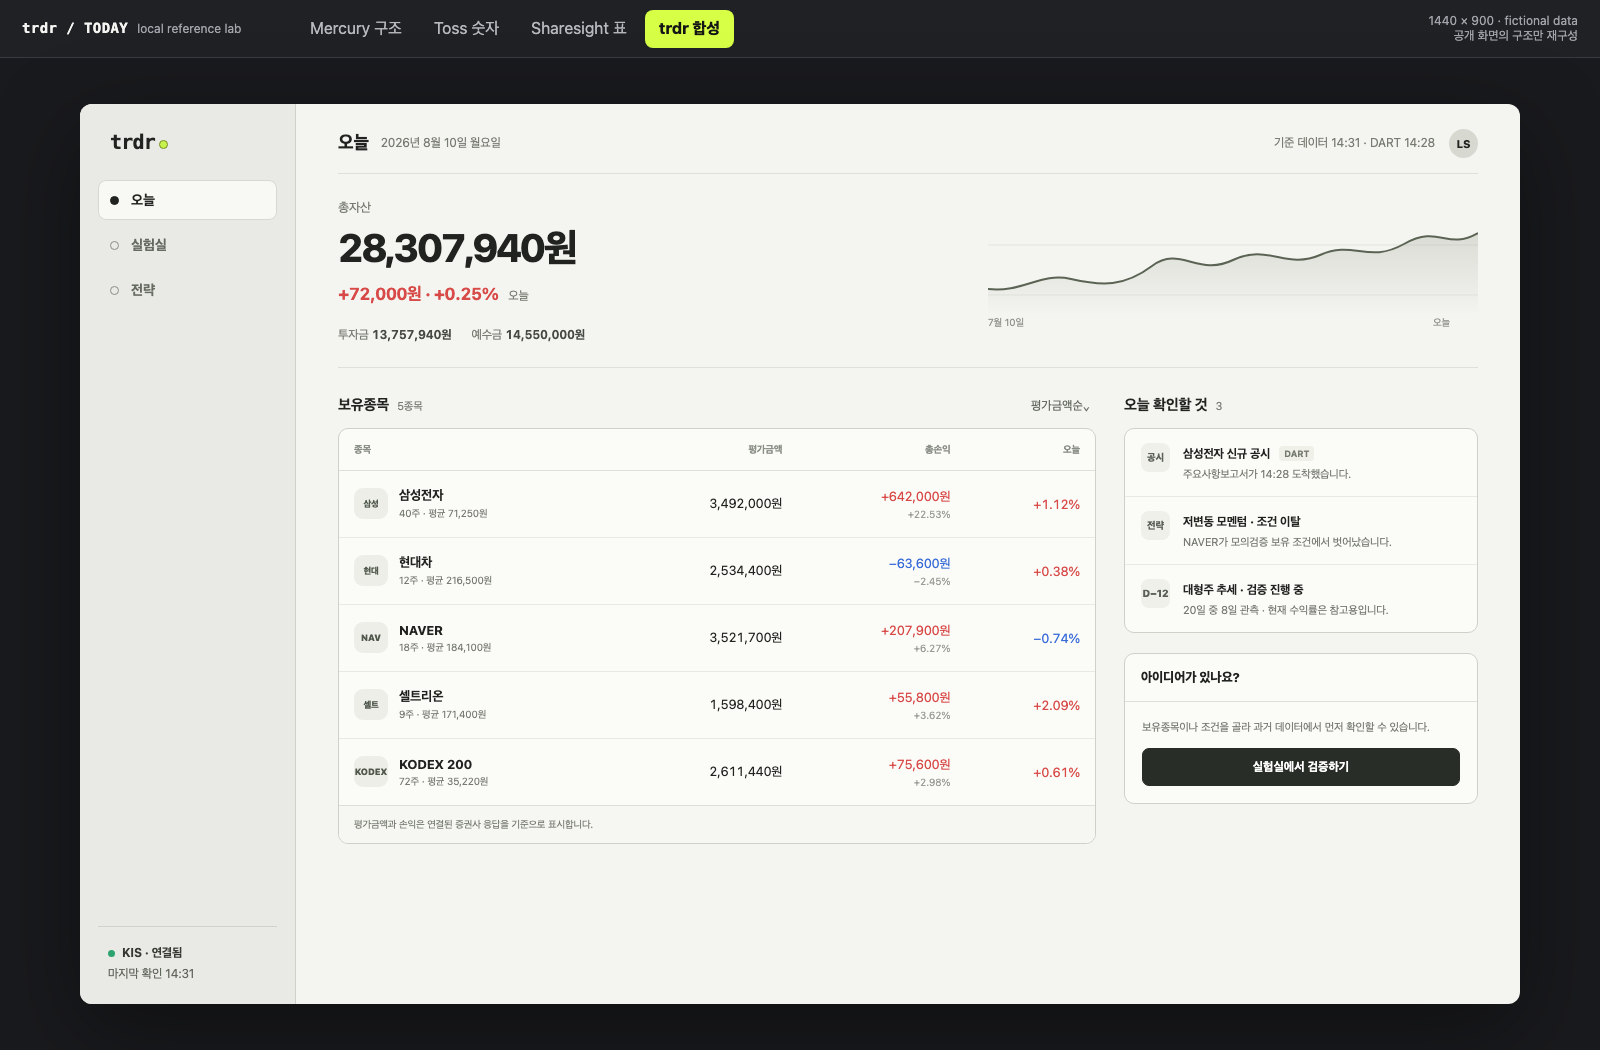
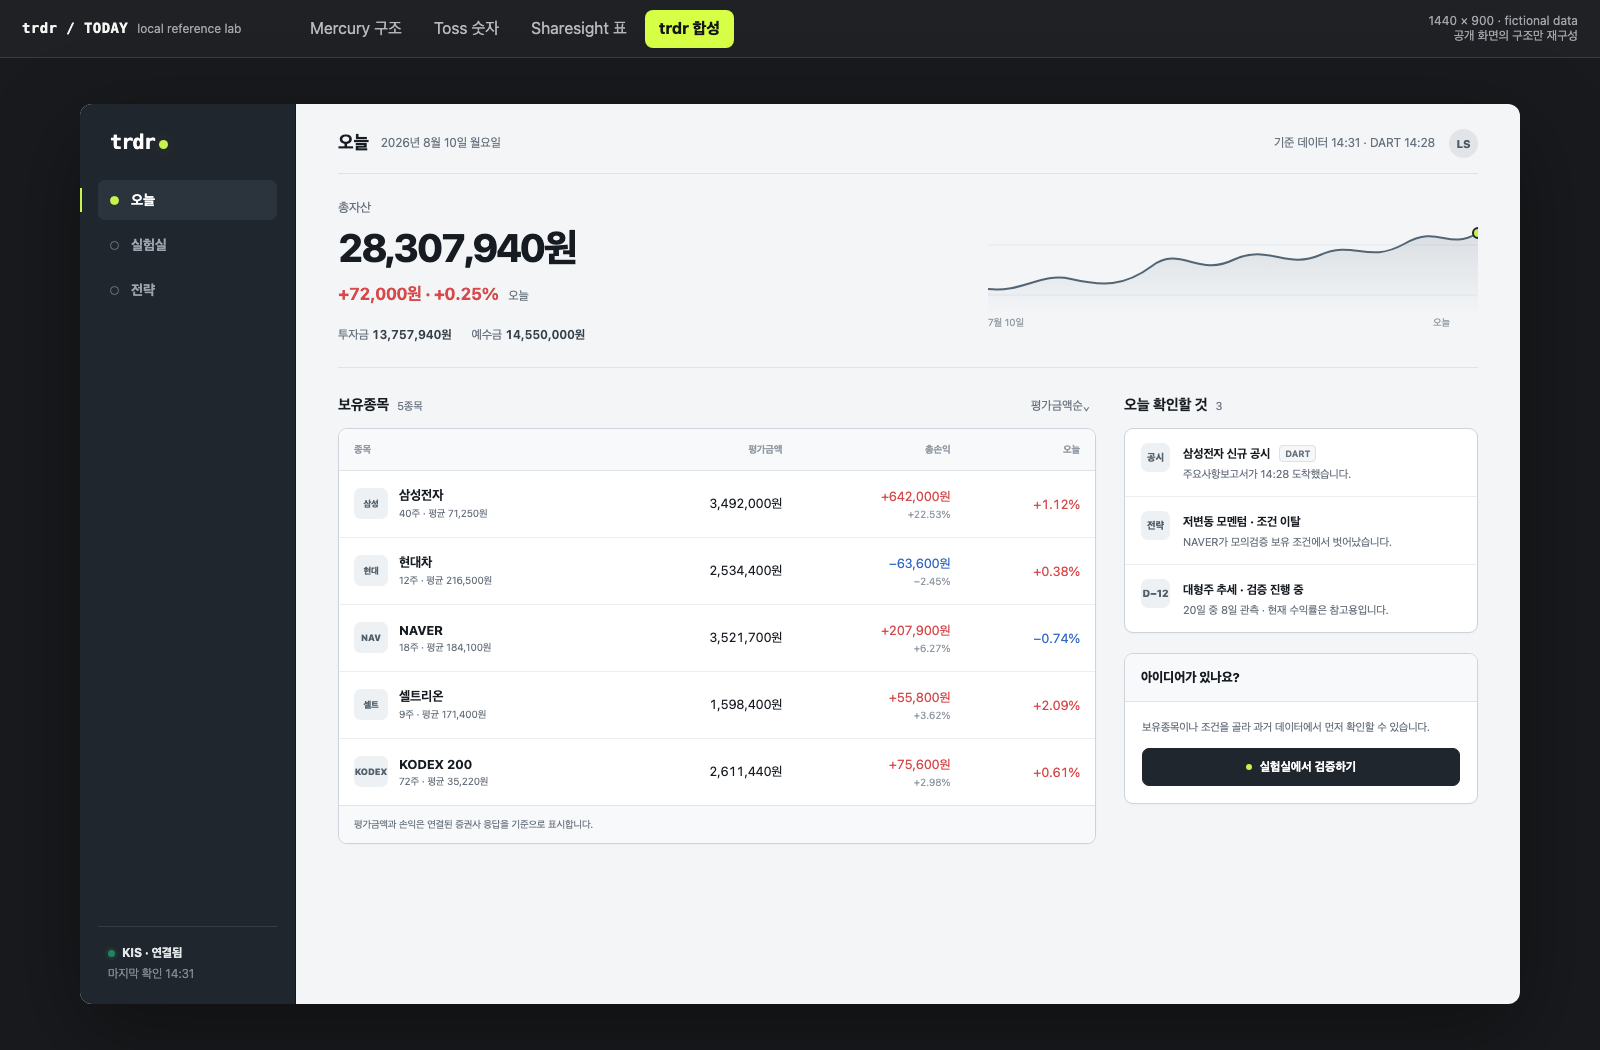
Apply graphite and lime system to Today

Changed region(s): [[0.0312, 0.0914, 0.1875, 0.9752], [0.7812, 0.701, 0.8438, 0.7619]]

diff --git a/artifacts/2026-08-10_today-reference-lab.html b/artifacts/2026-08-10_today-reference-lab.html
@@ -165,41 +165,43 @@
 
     /* ─── trdr synthesis ────────────────────────────────────── */
     .trdr {
-      --r-bg: #f4f4f0;
-      --r-paper: #fbfbf8;
-      --r-side: #e9eae5;
-      --r-ink: #20231f;
-      --r-muted: #777c72;
-      --r-faint: #a3a79f;
-      --r-line: #dedfd8;
-      --r-line2: #cfd1c8;
-      --r-green: #167c55;
-      --r-red: #d84a48;
-      --r-blue: #386bd8;
-      --r-accent: #252821;
+      --r-bg: #f3f5f7;
+      --r-paper: #ffffff;
+      --r-side: #20262d;
+      --r-ink: #171c22;
+      --r-muted: #68727e;
+      --r-faint: #929ba5;
+      --r-line: #dee3e8;
+      --r-line2: #cdd4db;
+      --r-green: #27815e;
+      --r-red: #d7494a;
+      --r-blue: #3569c7;
+      --r-accent: #20262d;
+      --r-lime: #c8f24c;
       background: var(--r-bg);
       color: var(--r-ink);
       display: grid;
       grid-template-columns: 216px 1fr;
       letter-spacing: -.012em;
     }
-    .r-side { background: var(--r-side); border-right: 1px solid var(--r-line2); padding: 28px 18px 22px; display: flex; flex-direction: column; }
-    .r-logo { padding: 0 12px 28px; font: 850 20px/1 ui-monospace, SFMono-Regular, Menlo, monospace; letter-spacing: -.04em; }
-    .r-logo i { display: inline-block; width: 9px; height: 9px; margin-left: 4px; border-radius: 50%; background: #c8f24c; border: 1px solid #758d26; }
+    .r-side { background: var(--r-side); border-right: 1px solid #14191e; padding: 28px 18px 22px; display: flex; flex-direction: column; color: #c3cad1; }
+    .r-logo { padding: 0 12px 28px; color: #fff; font: 850 20px/1 ui-monospace, SFMono-Regular, Menlo, monospace; letter-spacing: -.04em; }
+    .r-logo i { display: inline-block; width: 9px; height: 9px; margin-left: 4px; border-radius: 50%; background: var(--r-lime); box-shadow: 0 0 16px rgba(200,242,76,.17); }
     .r-nav { display: grid; gap: 5px; }
-    .r-nav div { display: flex; align-items: center; gap: 12px; padding: 11px 12px; border-radius: 8px; color: #666b62; font-size: 14px; font-weight: 650; }
-    .r-nav div:before { content:""; width: 7px; height: 7px; border: 1px solid #898e84; border-radius: 50%; }
-    .r-nav .on { color: var(--r-ink); background: #f8f8f4; box-shadow: inset 0 0 0 1px #d7d9d0; }
-    .r-nav .on:before { background: var(--r-ink); border-color: var(--r-ink); }
-    .r-connection { margin-top: auto; border-top: 1px solid #d1d3ca; padding: 18px 10px 0; color: #62675e; font-size: 12px; }
-    .r-connection b { display: flex; align-items: center; gap: 7px; color: #343830; margin-bottom: 5px; }
-    .r-connection b:before { content:""; width: 7px; height: 7px; border-radius: 50%; background: #2da36f; }
+    .r-nav div { display: flex; align-items: center; gap: 12px; padding: 11px 12px; border-radius: 7px; color: #9ca5af; font-size: 14px; font-weight: 650; position: relative; }
+    .r-nav div:before { content:""; width: 7px; height: 7px; border: 1px solid #6d7782; border-radius: 50%; }
+    .r-nav .on { color: #fff; background: #2b333c; }
+    .r-nav .on:before { background: var(--r-lime); border-color: var(--r-lime); }
+    .r-nav .on:after { content:""; position: absolute; left: -18px; top: 8px; bottom: 8px; width: 2px; background: var(--r-lime); }
+    .r-connection { margin-top: auto; border-top: 1px solid #343c45; padding: 18px 10px 0; color: #7f8994; font-size: 12px; }
+    .r-connection b { display: flex; align-items: center; gap: 7px; color: #e5e8eb; margin-bottom: 5px; }
+    .r-connection b:before { content:""; width: 7px; height: 7px; border-radius: 50%; background: var(--r-green); box-shadow: 0 0 0 3px rgba(39,129,94,.13); }
     .r-main { padding: 28px 42px 38px; min-width: 0; }
     .r-top { height: 42px; display: flex; align-items: center; border-bottom: 1px solid var(--r-line); padding-bottom: 19px; }
     .r-top h1 { margin: 0; font-size: 18px; font-weight: 760; }
     .r-date { color: var(--r-muted); font-size: 12px; margin-left: 12px; }
     .r-sync { margin-left: auto; color: var(--r-muted); font-size: 12px; }
-    .r-profile { width: 29px; height: 29px; margin-left: 14px; border-radius: 50%; background: #d7d9d1; display: grid; place-items: center; font-size: 11px; font-weight: 800; }
+    .r-profile { width: 29px; height: 29px; margin-left: 14px; border-radius: 50%; background: #e1e5e9; color: #4e5964; display: grid; place-items: center; font-size: 11px; font-weight: 800; }
     .r-summary { height: 194px; display: grid; grid-template-columns: 1fr 490px; align-items: center; border-bottom: 1px solid var(--r-line); }
     .r-kicker { color: var(--r-muted); font-size: 13px; margin-bottom: 8px; }
     .r-total { font-size: 39px; font-weight: 760; letter-spacing: -.055em; }
@@ -207,43 +209,45 @@
     .r-change strong { color: var(--r-red); font-size: 17px; }
     .r-change span { color: var(--r-muted); font-size: 12px; }
     .r-summary-meta { margin-top: 22px; display: flex; gap: 20px; color: var(--r-muted); font-size: 12px; }
-    .r-summary-meta b { color: #454a42; font-weight: 650; }
+    .r-summary-meta b { color: #36404a; font-weight: 650; }
     .r-spark { width: 100%; height: 116px; }
-    .r-spark .grid { stroke: #e4e5df; stroke-width: 1; }
+    .r-spark .grid { stroke: #e3e7ea; stroke-width: 1; }
     .r-spark .area { fill: url(#r-grad); }
-    .r-spark .line { fill: none; stroke: #5b6454; stroke-width: 2; }
-    .r-spark text { fill: #91968d; font-size: 10px; }
+    .r-spark .line { fill: none; stroke: #536574; stroke-width: 2; }
+    .r-spark .point { fill: var(--r-lime); stroke: var(--r-accent); stroke-width: 2; }
+    .r-spark text { fill: var(--r-faint); font-size: 10px; }
     .r-work { display: grid; grid-template-columns: minmax(0, 1fr) 354px; gap: 28px; padding-top: 27px; }
     .r-section-head { display: flex; align-items: baseline; margin-bottom: 13px; }
     .r-section-head h2 { margin: 0; font-size: 15px; }
     .r-section-head span { margin-left: 8px; color: var(--r-muted); font-size: 11px; }
-    .r-section-head button { margin-left: auto; border: 0; background: transparent; color: #62685e; font-size: 12px; }
-    .r-holdings { background: var(--r-paper); border: 1px solid var(--r-line2); border-radius: 10px; overflow: hidden; }
+    .r-section-head button { margin-left: auto; border: 0; background: transparent; color: var(--r-muted); font-size: 12px; }
+    .r-holdings { background: var(--r-paper); border: 1px solid var(--r-line2); border-radius: 9px; overflow: hidden; box-shadow: 0 1px 2px rgba(23,28,34,.03); }
     .r-table { width: 100%; border-collapse: collapse; font-size: 13px; }
-    .r-table th { height: 41px; padding: 0 15px; color: #8a8f86; font-size: 10px; font-weight: 650; text-align: right; border-bottom: 1px solid var(--r-line); }
+    .r-table th { height: 41px; padding: 0 15px; color: var(--r-faint); font-size: 10px; font-weight: 650; text-align: right; border-bottom: 1px solid var(--r-line); background: #f8f9fa; }
     .r-table th:first-child { text-align: left; }
-    .r-table td { height: 67px; padding: 0 15px; text-align: right; border-bottom: 1px solid #e8e9e3; }
+    .r-table td { height: 67px; padding: 0 15px; text-align: right; border-bottom: 1px solid #ebeff2; }
     .r-table tr:last-child td { border-bottom: 0; }
     .r-table td:first-child { text-align: left; }
     .r-stock { display: flex; align-items: center; gap: 11px; }
-    .r-symbol { width: 34px; height: 31px; flex: none; display: grid; place-items: center; border-radius: 9px; background: #eceee7; color: #51584c; font-size: 9px; font-weight: 850; }
+    .r-symbol { width: 34px; height: 31px; flex: none; display: grid; place-items: center; border-radius: 7px; background: #edf1f3; color: #53606d; font-size: 9px; font-weight: 850; }
     .r-stock b { display: block; font-size: 13px; }
     .r-stock small { display: block; color: var(--r-muted); margin-top: 3px; font-size: 10px; }
-    .r-sub { display: block; color: #9b9f97; margin-top: 3px; font-size: 10px; }
+    .r-sub { display: block; color: var(--r-faint); margin-top: 3px; font-size: 10px; }
     .r-up { color: var(--r-red); } .r-down { color: var(--r-blue); }
-    .r-foot { padding: 12px 15px; border-top: 1px solid var(--r-line); color: var(--r-muted); font-size: 10px; background: #f6f7f2; }
+    .r-foot { padding: 12px 15px; border-top: 1px solid var(--r-line); color: var(--r-muted); font-size: 10px; background: #f8f9fa; }
     .r-rail { display: grid; align-content: start; gap: 20px; }
-    .r-panel { background: var(--r-paper); border: 1px solid var(--r-line2); border-radius: 10px; overflow: hidden; }
-    .r-panel-title { padding: 15px 16px; border-bottom: 1px solid var(--r-line); font-size: 13px; font-weight: 750; }
-    .r-event { padding: 14px 16px; display: grid; grid-template-columns: 31px 1fr; gap: 11px; border-bottom: 1px solid #e8e9e3; }
+    .r-panel { background: var(--r-paper); border: 1px solid var(--r-line2); border-radius: 9px; overflow: hidden; box-shadow: 0 1px 2px rgba(23,28,34,.03); }
+    .r-panel-title { padding: 15px 16px; border-bottom: 1px solid var(--r-line); background: #f8f9fa; font-size: 13px; font-weight: 750; }
+    .r-event { padding: 14px 16px; display: grid; grid-template-columns: 31px 1fr; gap: 11px; border-bottom: 1px solid #ebeff2; }
     .r-event:last-child { border-bottom: 0; }
-    .r-event-icon { width: 29px; height: 29px; display: grid; place-items: center; border-radius: 8px; background: #eff0ea; color: #5b6157; font-size: 10px; font-weight: 850; }
+    .r-event-icon { width: 29px; height: 29px; display: grid; place-items: center; border-radius: 7px; background: #edf1f3; color: #53606d; font-size: 10px; font-weight: 850; }
     .r-event b { font-size: 12px; font-weight: 700; }
     .r-event p { margin: 4px 0 0; color: var(--r-muted); font-size: 11px; line-height: 1.45; }
-    .r-tag { display: inline-block; margin-left: 6px; padding: 2px 5px; border-radius: 4px; background: #eff1e9; color: #747a6e; font-size: 9px; vertical-align: 1px; }
+    .r-tag { display: inline-block; margin-left: 6px; padding: 2px 5px; border: 1px solid #dbe1e6; border-radius: 4px; background: #f5f7f8; color: #68727e; font-size: 9px; vertical-align: 1px; }
     .r-idea { padding: 17px; }
     .r-idea p { margin: 0; color: var(--r-muted); font-size: 11px; line-height: 1.5; }
-    .r-idea button { width: 100%; margin-top: 13px; border: 1px solid #292d27; border-radius: 7px; background: #292d27; color: white; padding: 10px 12px; font-weight: 700; font-size: 12px; }
+    .r-idea button { width: 100%; margin-top: 13px; border: 1px solid var(--r-accent); border-radius: 7px; background: var(--r-accent); color: white; padding: 10px 12px; font-weight: 700; font-size: 12px; }
+    .r-idea button:before { content:""; display: inline-block; width: 6px; height: 6px; margin-right: 8px; border-radius: 50%; background: var(--r-lime); vertical-align: 1px; }
     body .screen:not(.active) { display: none; }
     body .screen.active.mercury,
     body .screen.active.trdr { display: grid; }
@@ -346,10 +350,11 @@
         <section class="r-summary">
           <div><div class="r-kicker">총자산</div><div class="r-total num">28,307,940원</div><div class="r-change"><strong class="num">+72,000원 · +0.25%</strong><span>오늘</span></div><div class="r-summary-meta"><span>투자금 <b class="num">13,757,940원</b></span><span>예수금 <b class="num">14,550,000원</b></span></div></div>
           <svg class="r-spark" viewBox="0 0 490 116" preserveAspectRatio="none">
-            <defs><linearGradient id="r-grad" x1="0" y1="0" x2="0" y2="1"><stop offset="0" stop-color="#808b78" stop-opacity=".23"/><stop offset="1" stop-color="#808b78" stop-opacity="0"/></linearGradient></defs>
+            <defs><linearGradient id="r-grad" x1="0" y1="0" x2="0" y2="1"><stop offset="0" stop-color="#697987" stop-opacity=".18"/><stop offset="1" stop-color="#697987" stop-opacity="0"/></linearGradient></defs>
             <line class="grid" x1="0" y1="32" x2="490" y2="32"/><line class="grid" x1="0" y1="82" x2="490" y2="82"/>
             <path class="area" d="M0,76 C35,80 52,59 83,66 S136,74 164,53 S210,64 245,47 S298,57 332,42 S380,51 416,31 S458,38 490,20 L490,102 L0,102Z"/>
             <path class="line" d="M0,76 C35,80 52,59 83,66 S136,74 164,53 S210,64 245,47 S298,57 332,42 S380,51 416,31 S458,38 490,20"/>
+            <circle class="point" cx="490" cy="20" r="5"/>
             <text x="0" y="113">7월 10일</text><text x="445" y="113">오늘</text>
           </svg>
         </section>
